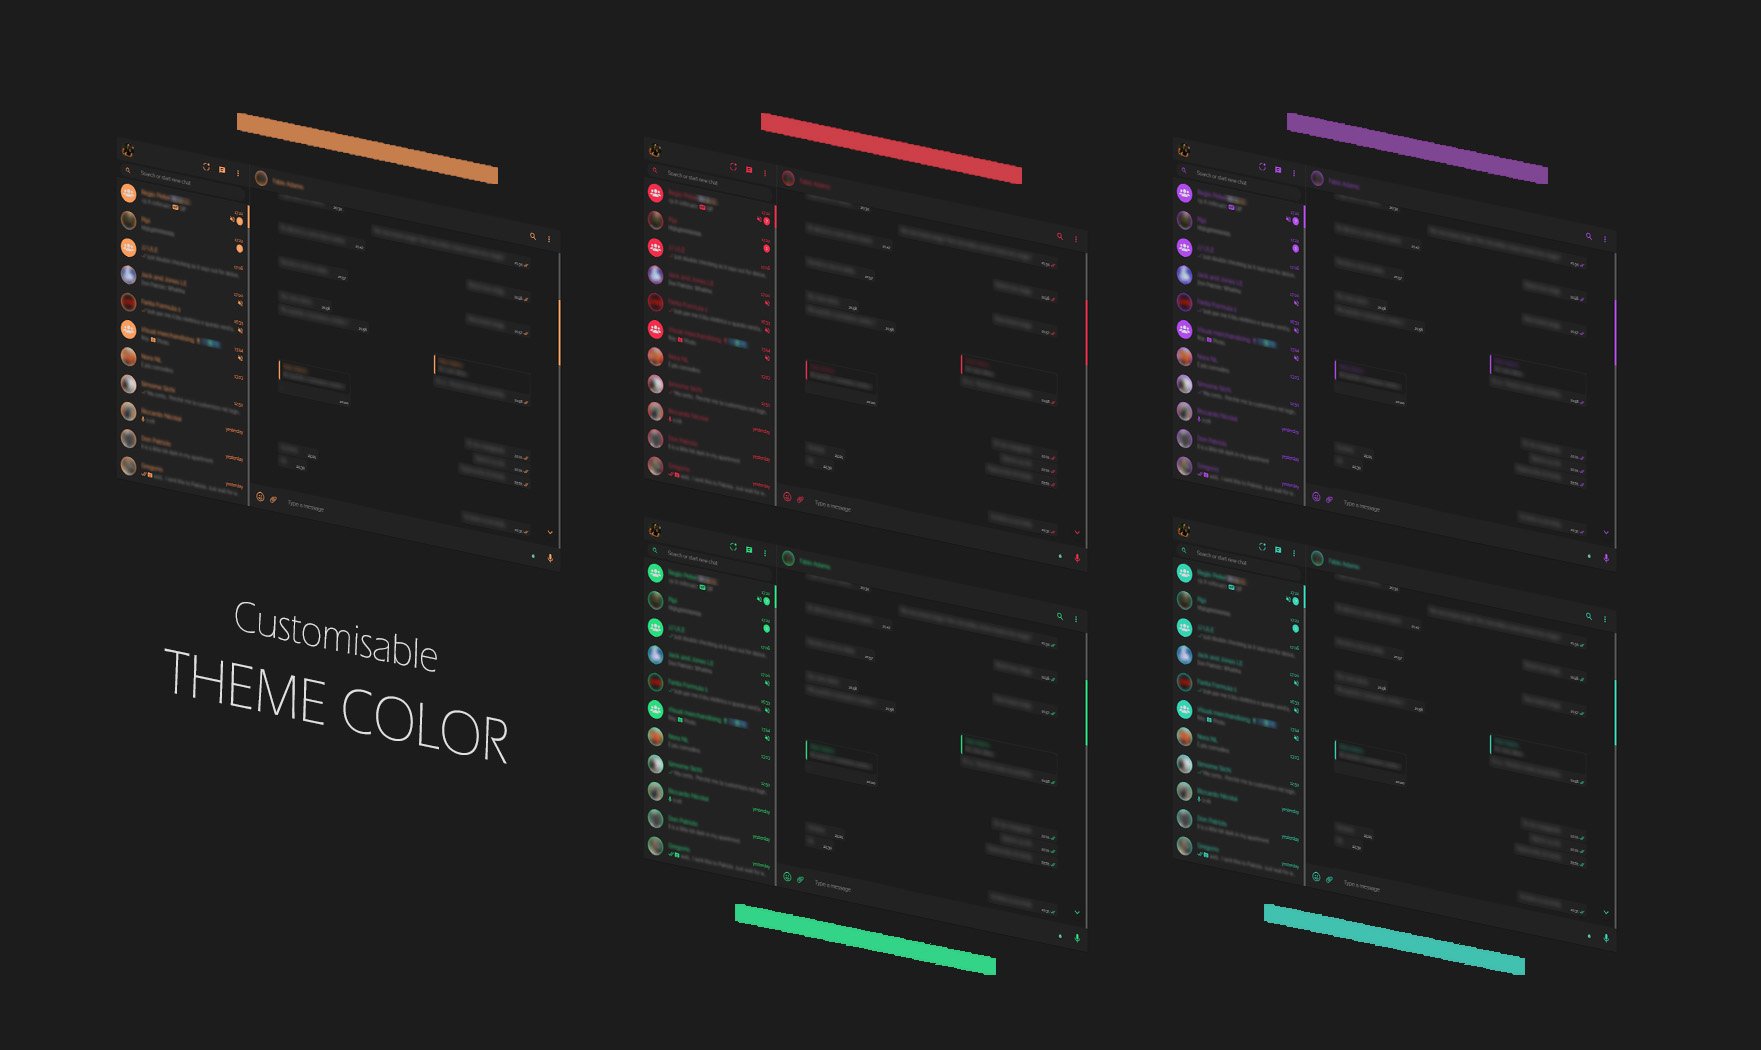
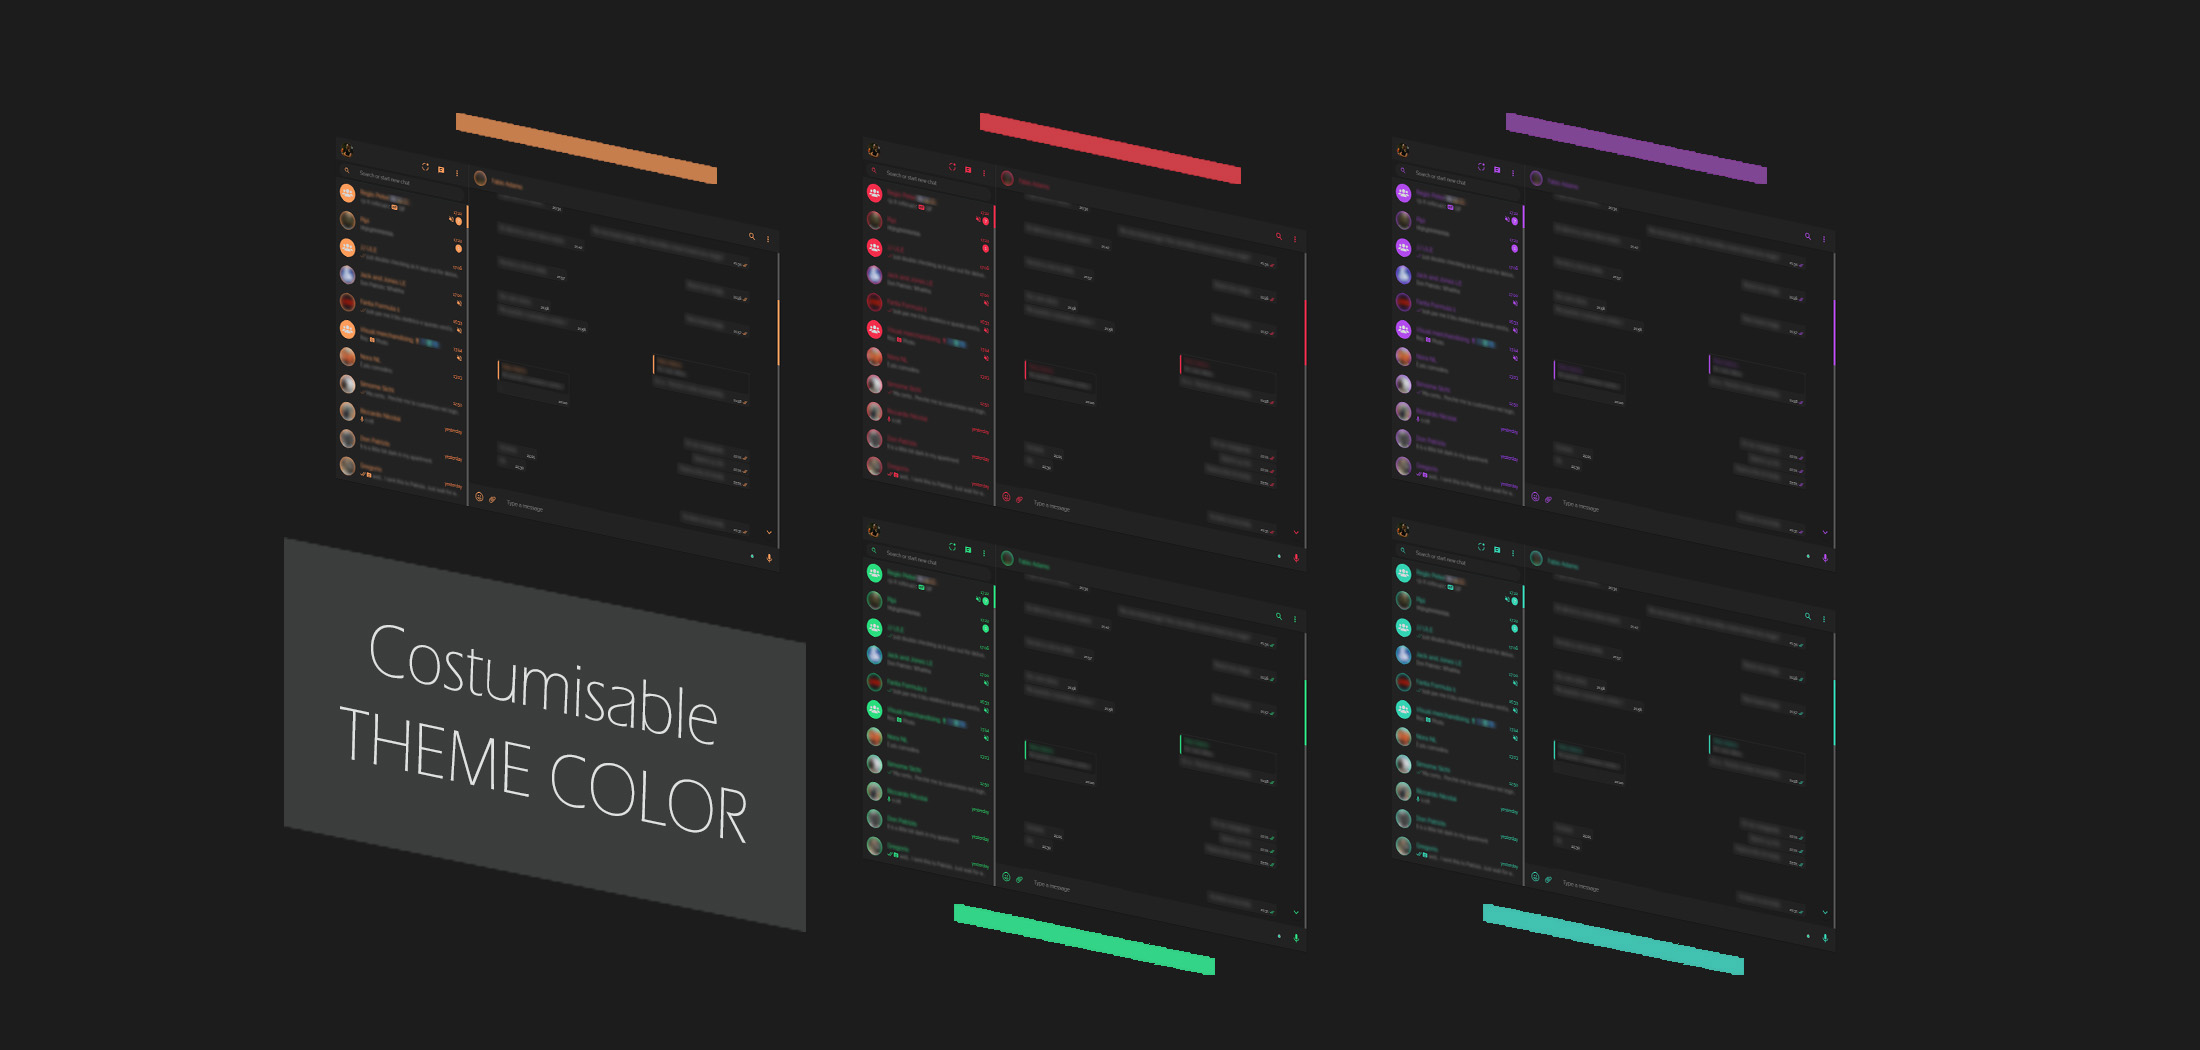
highlighted chat and minor changes

diff --git a/whatsapp-stilish.css b/whatsapp-stilish.css
@@ -12,9 +12,11 @@
   --darkerGray: #1c1c1c;
   --darkGray: #222222;
   --blackRgb: 0,0,0;
-  --mainColor: #ff9c5b;
+  --mainColor: #fd5154;
+  --mainColor: /*[[mainColor]]*/;
   --whitish: #d5d5d5;
-  --alertMessage: "IMPORTANT: whatsapp released a new version of whatsapp web on 19.11.2020 breaking all the custom skins out there. I will release fixes in the next days to make it work again. Keep manually updating!!!";
+  /* --alertMessage: "IMPORTANT: whatsapp released a new version of whatsapp web on 19.11.2020 breaking all the custom skins out there. I will release fixes in the next days to make it work again. Keep manually updating!!!"; */
+  --alertMessage: "IMPORTANT: I fixed an important issue where the color customisation wouldn't work. Please UNISTALL the skin, then go to the skin URL, select a color of your choice and REINSTALL the skin! ";
   --alertMessageSize: 17x;
   --audio-progress-played-incoming: var(--mainColor) !important;
   --audio-progress-played-outgoing: var(--mainColor) !important;
@@ -101,16 +103,16 @@ progress[value]::-webkit-progress-value {
 /*========= alert message - maintenance =========*/
 /*========= alert message - maintenance =========*/
 
-.app-wrapper-web:after {
+#app:after {
   display: flex;
   display: none;
   color: var(--mainColor);
   content: var(--alertMessage);
   animation: alert 50s infinite linear;
   top: 0;
-  width: 130vw;
+  white-space: nowrap;
   font-size: var(--alertMessageSize);
-  padding: 2px 20px;
+  padding: 2px 50px;
   height: 55px;
   left: -210vw;
   position: fixed;
@@ -248,7 +250,8 @@ span[data-icon="ptt-in-gray"] svg path:first-child {
 ._2UaNq:hover:after,
 ._1WWP0,
 ._3Pwfx:hover:after,
-._3Pwfx._1GGbM:after {
+._3Pwfx._1GGbM:after,
+._2Z4DV:hover:after {
   border: none !important;
 }
 ._1wSzK {
@@ -256,6 +259,9 @@ span[data-icon="ptt-in-gray"] svg path:first-child {
 }
 ._3NteO {
   cursor: zoom-in;
+}
+div[aria-selected]:hover, div[aria-selected="true"] {
+  filter: contrast(1.1)
 }
 
 ._20WGU,
@@ -505,7 +511,9 @@ span[data-icon="ptt-in-gray"] svg path:first-child {
 ._3ob6,
 .cR0ai ._2Ye92,
 ._3ob6-,
-.B3rjP {
+.B3rjP,
+.TbtXF,
+._2GAT7 {
   border: none !important;
   background: var(--darkerGray) !important;
   color: var(--superLightGray) !important;
@@ -548,7 +556,8 @@ html[dir="ltr"] ._1F9Ap,
 ._3guyl:not(.RXmft) svg path,
 ._24wtQ,
 ._1DB2K,
-._1JAUF._2x4bz ._2_1wd{
+._1JAUF._2x4bz ._2_1wd,
+._222Ot{
     /* fill: #828689 !important; */
   color: var(--superLightGray) !important;
 }
@@ -706,7 +715,8 @@ html[dir="ltr"] ._1F9Ap,
 .bT1qf._17oaQ,
 ._2OcmB,
 ._2oimd,
-._2kxXx {
+._2kxXx,
+._2EcSg {
   background-color: var(--darkerGray) !important;
   color: var(--mainColor) !important;
 }
@@ -802,7 +812,8 @@ a,
 ._2kR4B,
 ._24DMK,
 span[data-mention-jid],
-.matched-mention {
+.matched-mention,
+.-TvKO {
   color: var(--mainColor) !important;
 }
 
@@ -1034,8 +1045,9 @@ span[data-icon="ptt-in-gray"] svg path:first-child {
 
 
 ._3MjzD ._1XH7x[dir="auto"]:not(._1hI5g), ._3MjzD ._1XH7x[dir="auto"]:not(._1hI5g) + span, span[title="typing…"],
-._2a1Yw, span._2NMQ2._1hI5g._1VzZY, .-TvKO,
-._1JCRe {
+._2a1Yw, span._2NMQ2._1hI5g._1VzZY,
+._1JCRe,
+div[data-animate-modal-body] ._3xWLK .-TvKO {
   color: var(--whitish) !important;
 }
 .zGvn8 span {

diff --git a/skin-whatsapp.css b/skin-whatsapp.css
@@ -12,9 +12,10 @@
   --darkerGray: #1c1c1c;
   --darkGray: #222222;
   --blackRgb: 0,0,0;
-  --mainColor: #ff9c5b;
+  --mainColor: #fd5154;
   --whitish: #d5d5d5;
-  --alertMessage: "IMPORTANT: whatsapp released a new version of whatsapp web on 19.11.2020 breaking all the custom skins out there. I will release fixes in the next days to make it work again. Keep manually updating!!!";
+  /* --alertMessage: "IMPORTANT: whatsapp released a new version of whatsapp web on 19.11.2020 breaking all the custom skins out there. I will release fixes in the next days to make it work again. Keep manually updating!!!"; */
+  --alertMessage: "IMPORTANT: I fixed an important issue where the color customisation wouldn't work. Please UNISTALL the skin, then go to the skin URL, select a color of your choice and REINSTALL the skin! ";
   --alertMessageSize: 17x;
   --audio-progress-played-incoming: var(--mainColor) !important;
   --audio-progress-played-outgoing: var(--mainColor) !important;
@@ -101,16 +102,16 @@ progress[value]::-webkit-progress-value {
 /*========= alert message - maintenance =========*/
 /*========= alert message - maintenance =========*/
 
-.app-wrapper-web:after {
+#app:after {
   display: flex;
   display: none;
   color: var(--mainColor);
   content: var(--alertMessage);
   animation: alert 50s infinite linear;
   top: 0;
-  width: 130vw;
+  white-space: nowrap;
   font-size: var(--alertMessageSize);
-  padding: 2px 20px;
+  padding: 2px 50px;
   height: 55px;
   left: -210vw;
   position: fixed;
@@ -248,7 +249,8 @@ span[data-icon="ptt-in-gray"] svg path:first-child {
 ._2UaNq:hover:after,
 ._1WWP0,
 ._3Pwfx:hover:after,
-._3Pwfx._1GGbM:after {
+._3Pwfx._1GGbM:after,
+._2Z4DV:hover:after {
   border: none !important;
 }
 ._1wSzK {
@@ -256,6 +258,9 @@ span[data-icon="ptt-in-gray"] svg path:first-child {
 }
 ._3NteO {
   cursor: zoom-in;
+}
+div[aria-selected]:hover, div[aria-selected="true"] {
+  filter: contrast(1.1)
 }
 
 ._20WGU,
@@ -505,7 +510,9 @@ span[data-icon="ptt-in-gray"] svg path:first-child {
 ._3ob6,
 .cR0ai ._2Ye92,
 ._3ob6-,
-.B3rjP {
+.B3rjP,
+.TbtXF,
+._2GAT7 {
   border: none !important;
   background: var(--darkerGray) !important;
   color: var(--superLightGray) !important;
@@ -548,7 +555,8 @@ html[dir="ltr"] ._1F9Ap,
 ._3guyl:not(.RXmft) svg path,
 ._24wtQ,
 ._1DB2K,
-._1JAUF._2x4bz ._2_1wd{
+._1JAUF._2x4bz ._2_1wd,
+._222Ot{
     /* fill: #828689 !important; */
   color: var(--superLightGray) !important;
 }
@@ -706,7 +714,8 @@ html[dir="ltr"] ._1F9Ap,
 .bT1qf._17oaQ,
 ._2OcmB,
 ._2oimd,
-._2kxXx {
+._2kxXx,
+._2EcSg {
   background-color: var(--darkerGray) !important;
   color: var(--mainColor) !important;
 }
@@ -802,7 +811,8 @@ a,
 ._2kR4B,
 ._24DMK,
 span[data-mention-jid],
-.matched-mention {
+.matched-mention,
+.-TvKO {
   color: var(--mainColor) !important;
 }
 
@@ -1034,8 +1044,9 @@ span[data-icon="ptt-in-gray"] svg path:first-child {
 
 
 ._3MjzD ._1XH7x[dir="auto"]:not(._1hI5g), ._3MjzD ._1XH7x[dir="auto"]:not(._1hI5g) + span, span[title="typing…"],
-._2a1Yw, span._2NMQ2._1hI5g._1VzZY, .-TvKO,
-._1JCRe {
+._2a1Yw, span._2NMQ2._1hI5g._1VzZY,
+._1JCRe,
+div[data-animate-modal-body] ._3xWLK .-TvKO {
   color: var(--whitish) !important;
 }
 .zGvn8 span {
